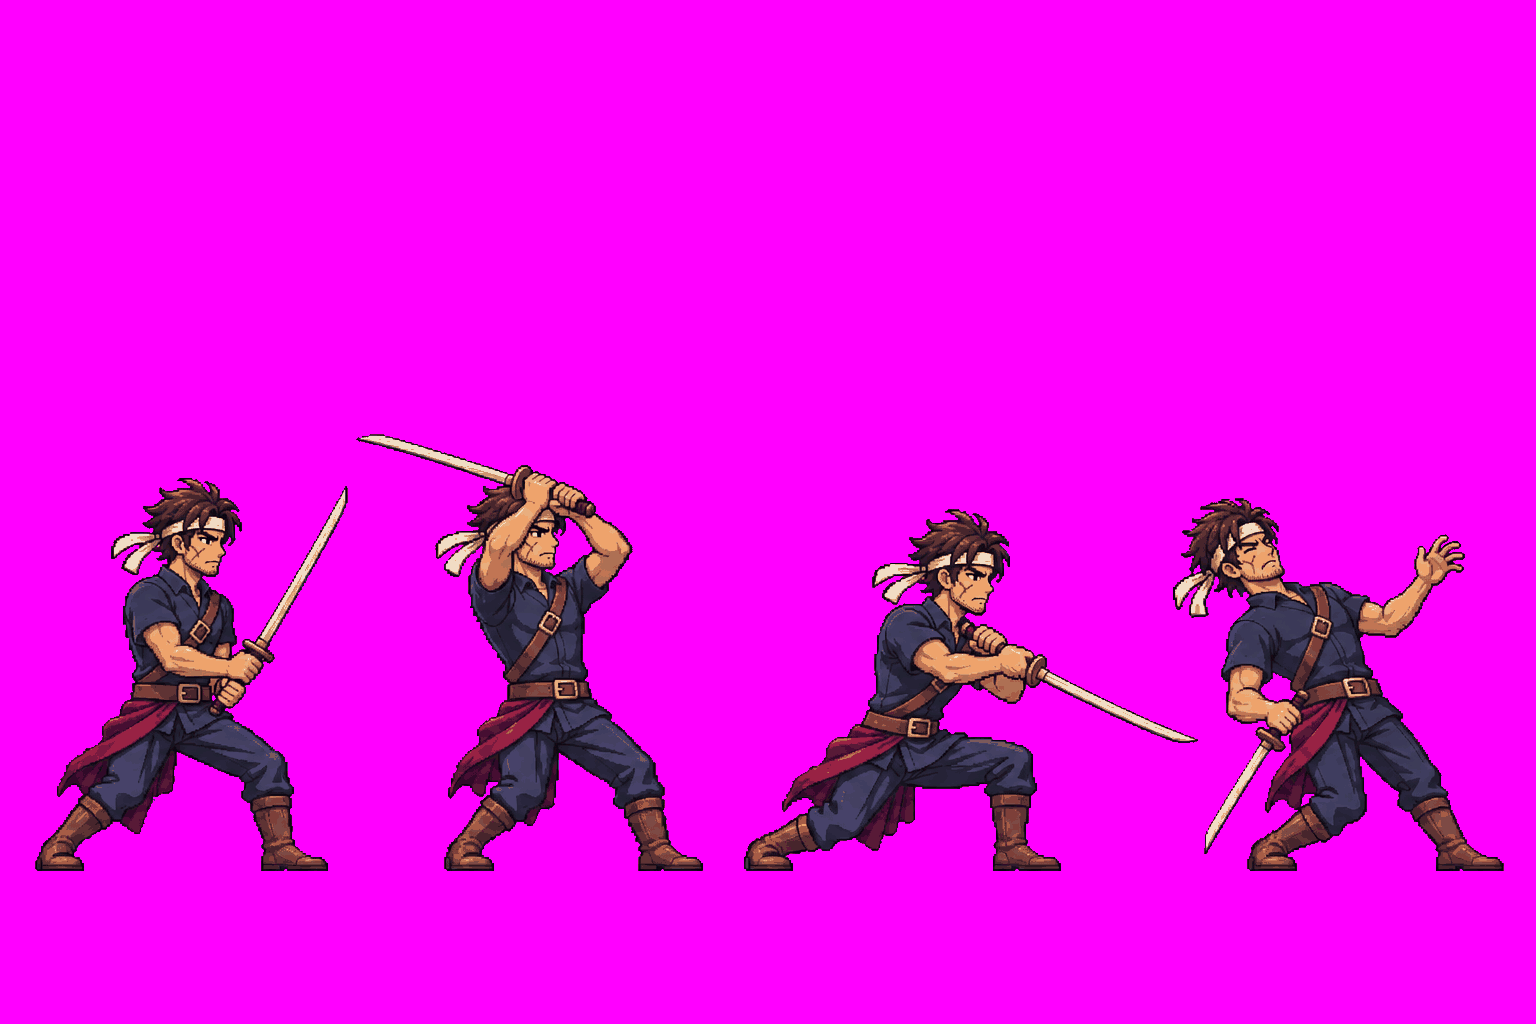
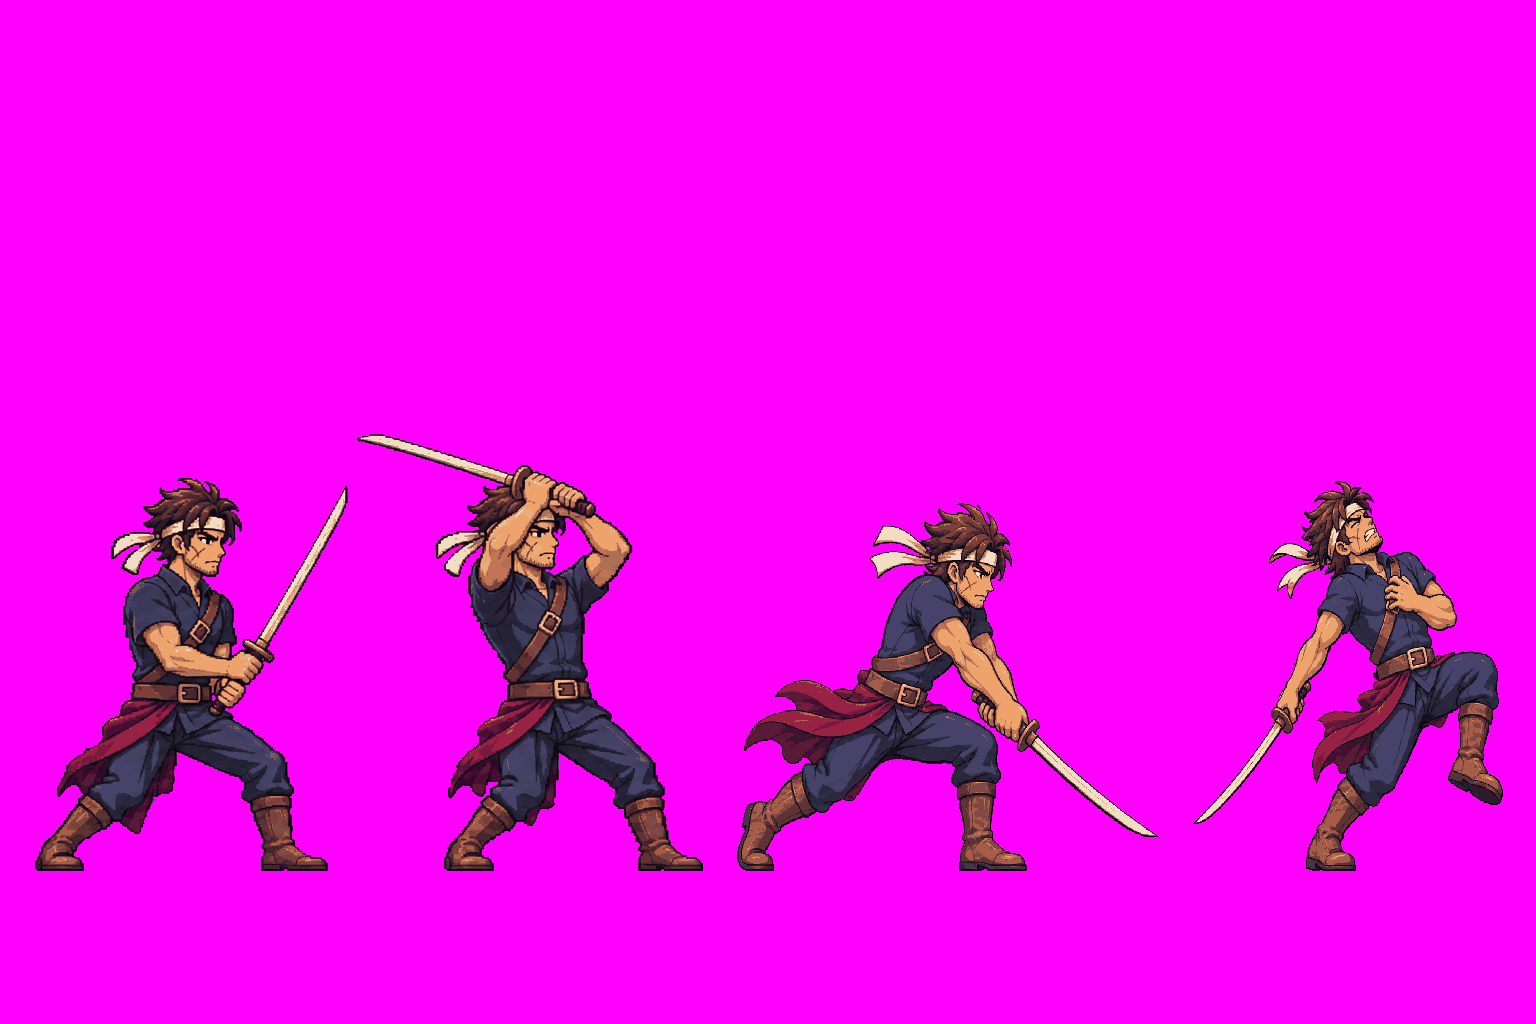
Redraw Baren strike follow-through and hit recoil

Changed region(s): [[0.7188, 0.4688, 1.0, 0.875], [0.4688, 0.5, 0.7188, 0.875], [0.7188, 0.7812, 0.75, 0.8125]]

diff --git a/art/inbox/NOTES.md b/art/inbox/NOTES.md
@@ -98,3 +98,7 @@
 - 만든 파일: `sheet_captain_blademaster.png`. 1536×1024 한 줄에 대기·공격 준비·공격 타격·피격을 배치했다. 승인 대기 중.
 - 가이드와의 차이: 웅크린 대기의 머리끝부터 발바닥까지 393px로, 목표 약 401px보다 8px 낮다. 머리띠 꼬리와 허리 천은 인접 자세의 칼날과 겹치지 않게 짧게 정리했다. 네 자세의 발바닥은 모두 y=870이며, 배경은 단색 #FF00FF다.
 - 다시 그릴 때 볼 점: 어두운 바탕에 64px로 줄이면 칼날 방향과 다리 자세는 구별된다. 뺨 흉터는 이 크기에서 희미해 다음 수정 시 얼굴의 명암 한 덩어리로 더 선명하게 표현할 수 있다.
+
+### 바렌 타격·피격 수정안
+
+3번은 앞 무릎에 체중을 싣고 뒷발 뒤꿈치를 들어, 양손으로 카타나를 내리벤 직후를 그렸다. 4번은 피격 순간 가슴을 감싸고 앞발을 들며 뒷발로 버티게 했다. 두 자세는 가이드의 관절 각도보다 체중 이동과 실루엣을 우선했다. 대기·준비는 원본 픽셀과 대조했고, 수정한 두 자세는 기존 팔레트에 맞췄다. 네 자세의 접지선은 y=870이며 어두운 배경에서 64px 크기로 확인했다.
